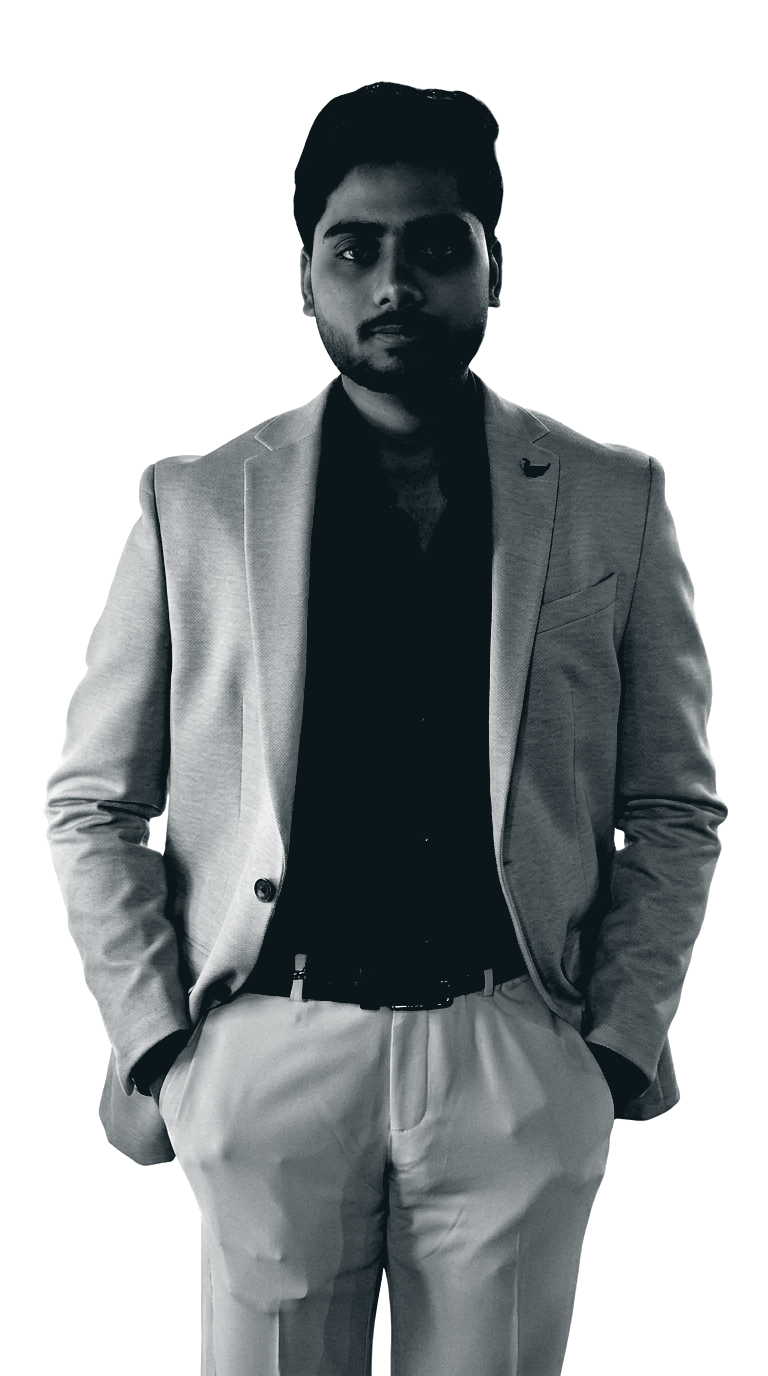
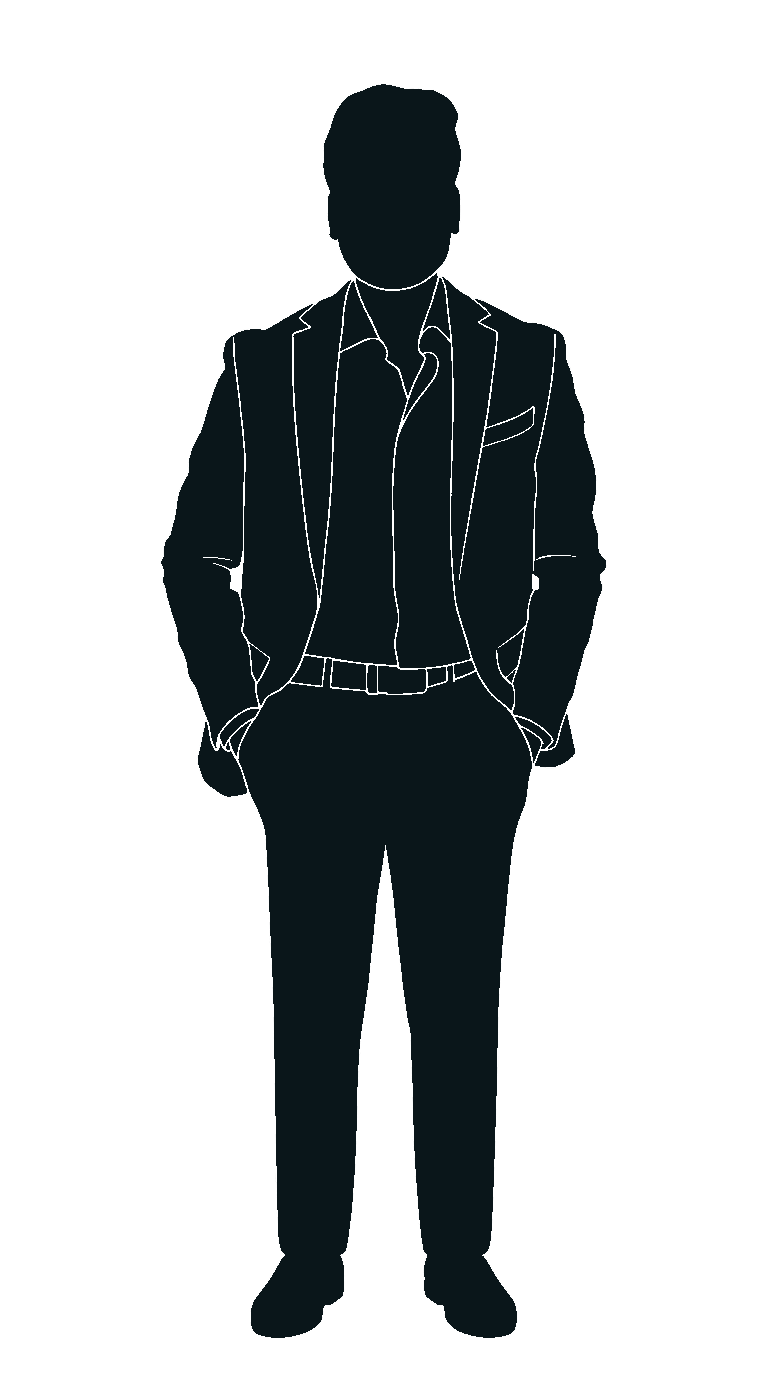
fix: pure vector silhouette with lapel accents, sleek responsive CTA buttons, and fix mobile clipping

diff --git a/src/components/home/Hero.tsx b/src/components/home/Hero.tsx
@@ -75,9 +75,9 @@ export function Hero() {
       {/* Background Big Monogram Letter D */}
       <motion.div
         aria-hidden="true"
-        className="absolute top-[8%] right-[16%] z-0 select-none font-display font-bold leading-none text-foreground/[0.18] pointer-events-none"
+        className="absolute top-[8%] right-[18%] sm:right-[20%] z-0 select-none font-display font-bold leading-none text-foreground/[0.16] pointer-events-none"
         style={{
-          fontSize: "clamp(200px, 35vw, 500px)",
+          fontSize: "clamp(160px, 30vw, 460px)",
           x: useStaticMotion ? 0 : letterX,
           y: useStaticMotion ? 0 : y1,
         }}
@@ -88,9 +88,9 @@ export function Hero() {
       {/* Background Big Monogram Letter K */}
       <motion.div
         aria-hidden="true"
-        className="absolute top-[8%] right-[0%] z-0 select-none font-display font-bold leading-none text-foreground/[0.12] pointer-events-none"
+        className="absolute top-[8%] right-[2%] sm:right-[4%] z-0 select-none font-display font-bold leading-none text-foreground/[0.10] pointer-events-none"
         style={{
-          fontSize: "clamp(200px, 35vw, 500px)",
+          fontSize: "clamp(160px, 30vw, 460px)",
           x: useStaticMotion ? 0 : letterReverseX,
           y: useStaticMotion ? 0 : y1,
         }}
@@ -101,17 +101,17 @@ export function Hero() {
       {/* Innovation / Lightbulb Background Motif with "Student Inventor" Label */}
       <motion.div
         aria-hidden="true"
-        className="absolute left-[8%] md:left-[24%] top-[40%] md:top-[44%] -translate-y-1/2 z-0 select-none pointer-events-none flex flex-col items-center justify-center transform-gpu"
+        className="absolute left-[16%] sm:left-[22%] md:left-[24%] top-[40%] md:top-[44%] -translate-y-1/2 z-0 select-none pointer-events-none flex flex-col items-center justify-center transform-gpu"
         style={{
           x: useStaticMotion ? 0 : iconsX,
           y: useStaticMotion ? 0 : y1,
-          rotate: -10,
+          rotate: -8,
         }}
       >
         <div
           style={{
-            width: "clamp(140px, 19vw, 280px)",
-            height: "clamp(140px, 19vw, 280px)",
+            width: "clamp(130px, 18vw, 280px)",
+            height: "clamp(130px, 18vw, 280px)",
           }}
           className="relative flex items-center justify-center text-foreground/[0.14] md:text-foreground/[0.18]"
         >
@@ -121,9 +121,9 @@ export function Hero() {
           />
 
           {/* Sharp "Student Inventor" Badge directly on motif */}
-          <div className="absolute inset-x-[-15%] top-[54%] -translate-y-1/2 flex items-center justify-center">
-            <div className="border border-foreground/20 bg-background/95 px-3 py-1 shadow-xs backdrop-blur-xs">
-              <p className="font-display text-[10px] sm:text-xs font-bold uppercase tracking-[0.28em] text-foreground whitespace-nowrap">
+          <div className="absolute top-[54%] -translate-y-1/2 left-1/2 -translate-x-1/2 flex items-center justify-center">
+            <div className="border border-foreground/20 bg-background/95 px-2.5 sm:px-3 py-0.5 sm:py-1 shadow-xs backdrop-blur-xs">
+              <p className="font-display text-[9px] sm:text-xs font-bold uppercase tracking-[0.16em] sm:tracking-[0.24em] text-foreground whitespace-nowrap">
                 Student Inventor • Applied PCB
               </p>
             </div>
@@ -150,23 +150,23 @@ export function Hero() {
         {/* DIVYANSH Text Header */}
         <motion.div
           data-mobile-static-motion="true"
-          className="absolute left-6 top-[8%] z-20 md:left-12"
+          className="absolute left-4 top-[8%] z-20 sm:left-8 md:left-12"
           initial={useStaticMotion ? false : { opacity: 0, x: -40 }}
           animate={{ opacity: 1, x: 0 }}
           transition={{ duration: 0.8, ease: [0.22, 1, 0.36, 1] }}
         >
           <h1
             className="font-display font-bold uppercase leading-none tracking-normal text-display-tone"
-            style={{ fontSize: "clamp(48px, 12vw, 240px)" }}
+            style={{ fontSize: "clamp(36px, 10.5vw, 220px)" }}
           >
             <RevealText text="DIVYANSH" split="chars" stagger={0.035} />
           </h1>
         </motion.div>
 
-        {/* Center-Right Divyansh Silhouette / Cutout ("Sliver") */}
+        {/* Center-Right Divyansh Silhouette Cutout */}
         <div
-          className="absolute left-[55%] top-[50%] z-10 -translate-x-[31%] -translate-y-[58%] pointer-events-none"
-          style={{ height: "clamp(340px, 84vh, 1280px)", width: "clamp(340px, 84vh, 1280px)" }}
+          className="absolute left-[54%] top-[48%] z-10 -translate-x-[30%] -translate-y-[52%] pointer-events-none"
+          style={{ height: "clamp(300px, 78vh, 1200px)", width: "clamp(300px, 78vh, 1200px)" }}
         >
           <motion.div
             data-mobile-static-motion="true"
@@ -185,7 +185,6 @@ export function Hero() {
               style={{
                 height: "100%",
                 width: "auto",
-                mixBlendMode: "multiply",
                 objectFit: "contain",
                 filter: "drop-shadow(0 20px 40px rgba(0,0,0,0.12))",
               }}
@@ -196,7 +195,7 @@ export function Hero() {
         {/* KATIYAR Text Header */}
         <motion.div
           data-mobile-static-motion="true"
-          className="absolute bottom-[28%] right-6 z-20 text-right md:bottom-[26%] md:right-24"
+          className="absolute bottom-[24%] right-4 z-20 text-right sm:bottom-[25%] sm:right-10 md:bottom-[26%] md:right-24"
           initial={useStaticMotion ? false : { opacity: 0, x: 40 }}
           animate={{ opacity: 1, x: 0 }}
           transition={{ duration: 1.1, delay: 0.2, ease: [0.22, 1, 0.36, 1] }}
@@ -204,7 +203,7 @@ export function Hero() {
         >
           <h1
             className="font-display font-bold uppercase tracking-normal text-display-tone"
-            style={{ fontSize: "clamp(50px, 9vw, 200px)" }}
+            style={{ fontSize: "clamp(40px, 8.5vw, 190px)" }}
           >
             <RevealText text="KATIYAR" split="chars" delay={0.2} stagger={0.04} />
           </h1>
@@ -213,17 +212,17 @@ export function Hero() {
         {/* Hero Bottom Controls & Details */}
         <motion.div
           data-mobile-static-motion="true"
-          className="absolute bottom-4 left-6 right-6 z-30 md:bottom-6 md:left-12 md:right-12"
+          className="absolute bottom-3 left-4 right-4 z-30 sm:bottom-5 sm:left-8 sm:right-8 md:bottom-6 md:left-12 md:right-12"
           initial={useStaticMotion ? false : { opacity: 0, y: 16 }}
           animate={{ opacity: 1, y: 0 }}
           transition={{ duration: 0.6, delay: 0.5 }}
         >
-          <div className="flex w-full flex-row items-stretch justify-center gap-3 md:gap-[8vw] mb-4">
+          <div className="flex w-full flex-row items-center justify-center gap-2.5 sm:gap-4 md:gap-8 mb-3 sm:mb-4">
             <MagneticButton className="min-w-0 flex-1 sm:flex-none">
               <Button
                 asChild
                 size="hero"
-                className="premium-soft-hover w-full rounded-none font-bold uppercase tracking-[0.12em] sm:min-w-[14rem] sm:tracking-[0.24em]"
+                className="premium-soft-hover w-full rounded-none font-bold uppercase tracking-wider sm:min-w-[12rem] sm:max-w-[15rem] sm:tracking-[0.2em]"
               >
                 <a href="#about">About Divyansh</a>
               </Button>
@@ -234,27 +233,27 @@ export function Hero() {
                 asChild
                 variant="outline"
                 size="hero"
-                className="premium-soft-hover w-full rounded-none border-foreground font-bold uppercase tracking-[0.12em] hover:text-background sm:min-w-[18rem] sm:tracking-[0.18em]"
+                className="premium-soft-hover w-full rounded-none border-foreground font-bold uppercase tracking-wider hover:text-background sm:min-w-[13rem] sm:max-w-[16rem] sm:tracking-[0.16em]"
               >
                 <a href="#pcb-curriculum">Applied Disciplines</a>
               </Button>
             </MagneticButton>
           </div>
 
-          <div className="flex items-end justify-between gap-6 border-t border-foreground/10 pt-3 md:pt-4">
+          <div className="flex items-end justify-between gap-4 border-t border-foreground/10 pt-2.5 sm:pt-3 md:pt-4">
             <div>
-              <p className="mb-0.5 text-[10px] font-semibold uppercase tracking-[0.25em] text-muted-foreground">
+              <p className="mb-0.5 text-[9px] sm:text-[10px] font-semibold uppercase tracking-[0.2em] text-muted-foreground">
                 Academic &amp; Practical Focus
               </p>
-              <p className="text-xs sm:text-sm font-medium uppercase tracking-wide text-foreground">
+              <p className="text-[11px] sm:text-xs md:text-sm font-medium uppercase tracking-wide text-foreground">
                 Biology • Innovation • Applied Tech
               </p>
             </div>
             <div className="text-right">
-              <p className="mb-0.5 text-[10px] font-semibold uppercase tracking-[0.25em] text-muted-foreground">
+              <p className="mb-0.5 text-[9px] sm:text-[10px] font-semibold uppercase tracking-[0.2em] text-muted-foreground">
                 Academic Year
               </p>
-              <p className="text-xs sm:text-sm font-medium uppercase tracking-wide text-foreground">
+              <p className="text-[11px] sm:text-xs md:text-sm font-medium uppercase tracking-wide text-foreground">
                 Class 12 • 2026
               </p>
             </div>

diff --git a/src/components/ui/button.tsx b/src/components/ui/button.tsx
@@ -1,4 +1,4 @@
-import * as React from "react";
+import * as React from "react";
 import { Slot } from "@radix-ui/react-slot";
 import { cva, type VariantProps } from "class-variance-authority";
 import { cn } from "@/lib/utils";
@@ -18,7 +18,7 @@ const buttonVariants = cva(
         sm: "h-9 px-4 text-xs",
         lg: "h-11 px-5 py-2 text-sm md:h-12 md:px-8 md:text-base",
         xl: "h-12 px-6 py-2 text-base md:h-14 md:px-10 md:text-lg",
-        hero: "h-14 px-2 text-sm sm:h-16 sm:px-4 sm:text-lg md:h-14 md:px-6 md:text-[1.4rem]",
+        hero: "h-10 px-3.5 text-xs sm:h-11 sm:px-5 sm:text-xs md:h-12 md:px-7 md:text-sm font-semibold tracking-wider",
         icon: "h-10 w-10 text-sm",
       },
     },
